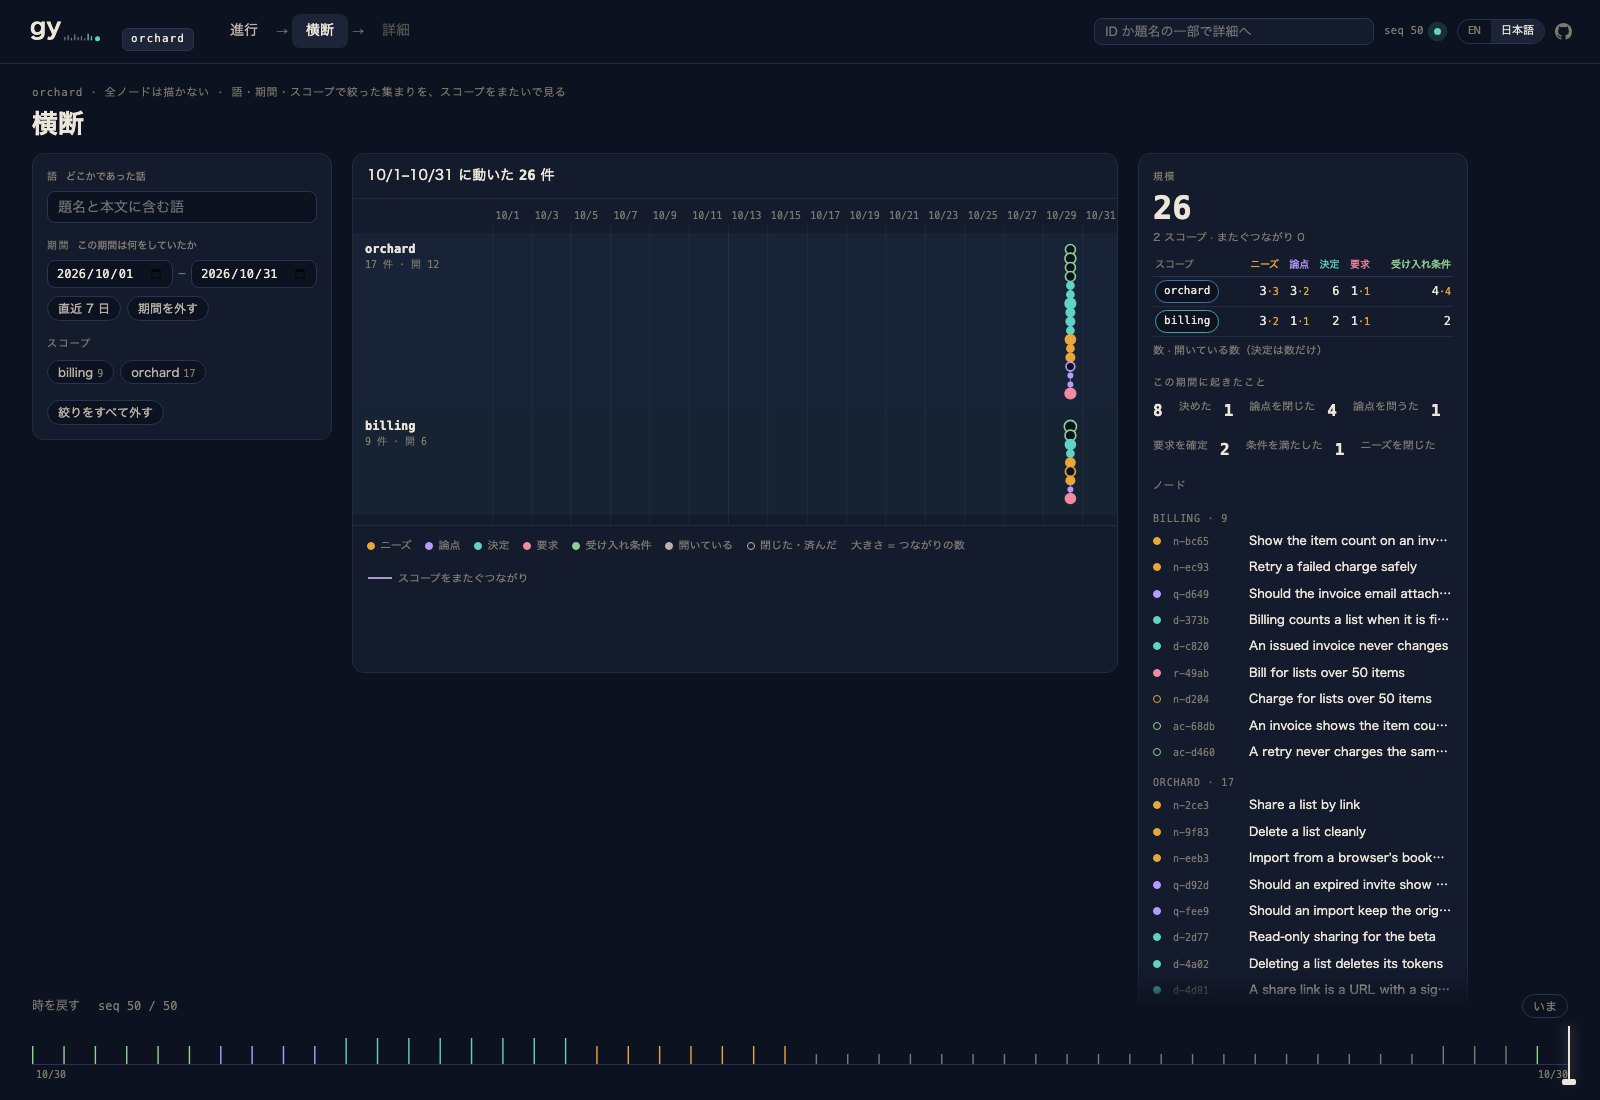
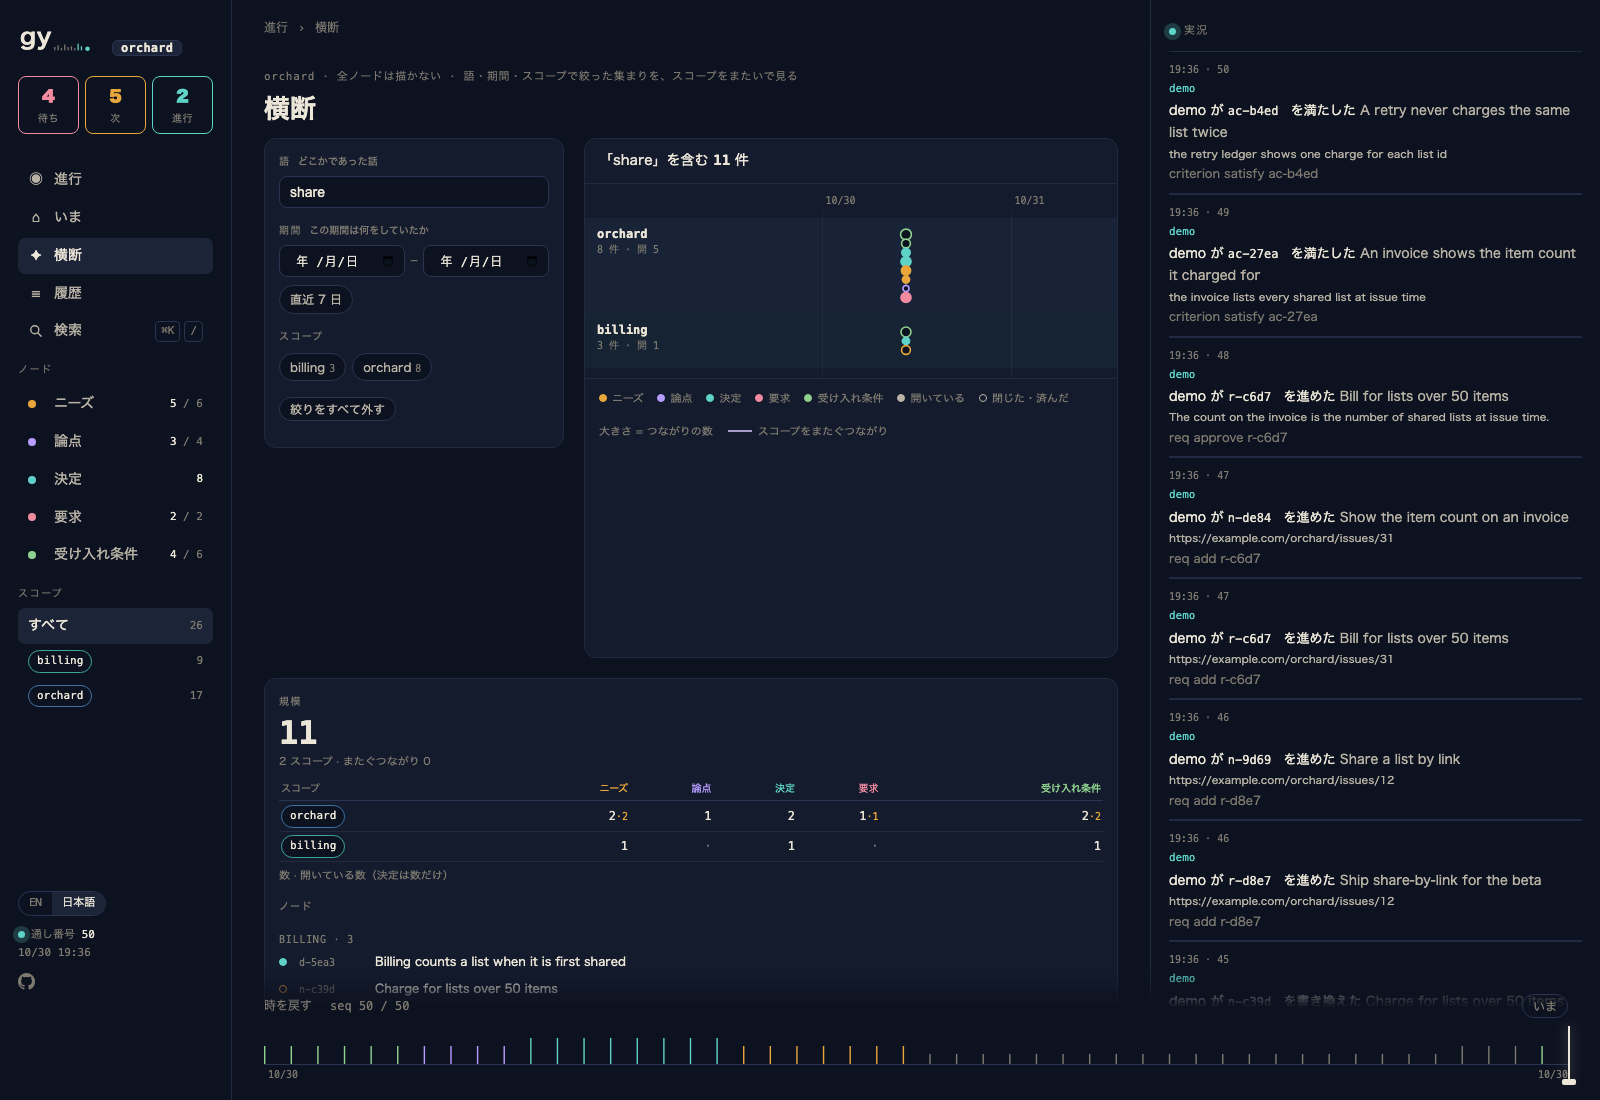
docs(serve): the README shows the home again, and the changelog says what stayed (r-0f99, d-159a)
The unreleased notes said the home, the lists, the eyes, and the history were
gone, and that `/api/now`, `/api/list`, `/api/history`, and `/api/labels` went
with the graph. They were never removed by a decision and now stand beside the
three screens, so the notes say what the build does: the three screens are
added, the graph screen and the all-node layout are gone, and the rest stays.

The README's progress section pointed at the home's picture; it now shows
progress, and a home section follows. The pictures come from
`scripts/demo-ledger.sh`, taken at 1600x1100 in Chrome.

diff --git a/CHANGELOG.md b/CHANGELOG.md
@@ -9,8 +9,8 @@ what is being built (d-c1a1, r-86ea).
 ### Added
 
 - **`show --json` carries every edge, `created`, and the node's creator**: each node returns `edges` (both directions, each with `name`, `to`, and `mark`), `created`, and `actor`, the writer whose write created it, with or without `--full`. The text output is unchanged (d-bbab, r-cb11, ac-88ca).
-- **`/api/shell` carries the sync state**: the same object `/api/now` answered under `resume.sync` before that route was removed — `pending`, `last_ok_at`, `last_ok_seq`, `last_error` — and nothing on a local ledger, so the band's "not pushed" mark has a home again (d-6d90, n-ecbf).
-- **`gy serve` answers from three reading APIs, and no longer lays the whole graph out**: `GET /api/overview` (the open needs by how far they got, what holds them and what the waits come from, the weeks, the scopes and their writes, the people a question waits on, the checks past due, and what nobody holds), `GET /api/cross?q=&from=&to=&scope=` (a cut of the record, or the scope-by-week grid when no cut is asked for or it holds more than 900 nodes), and `GET /api/node/<id>/path?depth=2|3` (the thread around one node, cause left and effect right). Each route file's doc comment is the shape and the meaning of every key. All three read the ledger once and judge with gy-ledger's own derivations. `GET /api/graph` and the server-side force layout are gone: the crossing screen places its cut in the browser, so the layout that diverged on kokopelli cannot come back. The routes the new screens do not read — `/api/now`, `/api/list`, `/api/history`, `/api/labels` — are gone with it (d-6d90, d-c302, r-44c7, ac-66f1).
+- **`/api/shell` carries the sync state**: the same object `/api/now` answers under `resume.sync` — `pending`, `last_ok_at`, `last_ok_seq`, `last_error` — and nothing on a local ledger, so the band's "not pushed" mark has its state in the frame it draws with (d-6d90, n-ecbf).
+- **`gy serve` adds three reading APIs, and no longer lays the whole graph out**: `GET /api/overview` (the open needs by how far they got, what holds them and what the waits come from, the weeks, the scopes and their writes, the people a question waits on, the checks past due, and what nobody holds), `GET /api/cross?q=&from=&to=&scope=` (a cut of the record, or the scope-by-week grid when no cut is asked for or it holds more than 900 nodes), and `GET /api/node/<id>/path?depth=2|3` (the thread around one node, cause left and effect right). Each route file's doc comment is the shape and the meaning of every key. All three read the ledger once and judge with gy-ledger's own derivations. `GET /api/graph` and the server-side force layout are gone: the crossing screen places its cut in the browser, so the layout that diverged on kokopelli cannot come back. The routes the older pages read — `/api/now`, `/api/list`, `/api/history`, `/api/labels` — stay, because the home, the lists, the history, and the rail still read them (d-6d90, d-c302, d-159a, r-44c7, r-0f99, ac-66f1).
 - **A criterion only closed needs aimed at reads as withdrawn**: an unmet criterion whose every `targets` bearer was closed with `need close` reads as `withdrawn`, and `gy show` names the closes (`withdrawn-by <need> (<by>: <evidence>)`) that withdrew it. The `targets` edge stays, `handover` no longer warns about it, and `list --status unsatisfied` leaves it out. No command or option was added (d-ed67, r-a8de, ac-b885).
 
 ### Changed
@@ -18,13 +18,19 @@ what is being built (d-c1a1, r-86ea).
 - **`/api/node` carries no neighbourhood, and reads the ledger once**: the ego map is gone (`neighborhood`), since the thread around a node is `/api/node/<id>/path`; the peers come from one read instead of one resolve per edge, so a need that waits on 160 questions answers in 0.035 s instead of 2.6 s. It also joins the three reading routes' guard: computed once per identical ask, 503 with the reason past five seconds, one line on failure (d-6d90, ac-0dbb).
 - **`gy serve` opens no ledger for a page or an asset, and keeps the one it opened**: `/` and `/assets/*` are answered before any ledger is read, so a browser's asset reads no longer each pay for opening the log; a reading answer keeps the opened ledger while the log's length and time stand still, and opens afresh as soon as a write lands. Opening the log was most of a small answer — on the kokopelli copy, `/api/ticks` fell from 0.135 s to 0.001 s warm and `/api/overview` from 0.184 s to 0.025 s (d-6d90).
 - **`gy serve` computes each reading question once**: a second ask for the same question that arrives while the first is still being computed waits for that answer instead of starting another, so a reloading screen can no longer stack computations. A computation past five seconds is refused with 503 and the reason, and a failed or refused answer writes one line to the server's log (d-6d90, ac-0dbb).
-- **`gy serve` is the three screens of the approved sample**: the first screen is progress (a scope × stage board, the weekly flow, and the roots of the waits), the second is across (a word, a period, or some scopes narrow the record, drawn with rows for scopes and time across, or as a scope × week grid when nothing is narrowed or the set passes 900), and the third is detail (where a node came from on the left, what it works on on the right, and a box centers its node). The first screen draws its frame before any API answer arrives and names a refused one in place; a refused answer never leaves an empty page (r-2d02, d-647f, d-6d90, n-a9f6, ac-0dbb).
+- **`gy serve` adds the three screens of the approved sample, and keeps the screens it had**: the first screen is progress (a scope × stage board, the weekly flow, and the roots of the waits), the second is across (a word, a period, or some scopes narrow the record, drawn with rows for scopes and time across, or as a scope × week grid when nothing is narrowed or the set passes 900), and the third is detail (where a node came from on the left, what it works on on the right, and a box centers its node). The first screen draws its frame before any API answer arrives and names a refused one in place; a refused answer never leaves an empty page (r-2d02, d-647f, d-159a, d-6d90, n-a9f6, ac-0dbb).
 - **The graph screen and its force layout are gone**: `/api/graph`, `graph.js`, and `graph-draw.js` are removed, and the crossing screen places its nodes from the answer alone, so a node with five hundred edges gives finite coordinates (r-2d02, ac-afba).
-- **The old now, list, eye, and history screens are gone**: the three screens above replace them. The time band, the search palette, and the header's jump box stay.
+- **Home, the lists, the eyes, the history, and the rail stay**: the sidebar's entrances are progress (the first screen), home, across, and the history, with a list of each kind and the scopes below them; the graph's entrance passes to across, and the wordmark returns to progress. The rail, the time band, the search palette, and the language switch stay too (d-159a, d-e239, r-0f99).
 - **`decide --help` names only the relations it accepts**: `--relate` lists `narrows`, `widens`, `supersedes`, and `completes`, and says that `narrows` and `supersedes` also need `--mark` (d-d889, r-2bad, ac-57a8).
 - **`edit` names what changes a reserved attribute**: a refusal says which real operation changes it (`req approve`, `need close`, `req add --ref`, `question close`, …), or that it is decided when the node is made and cannot change later (d-d889, r-2bad, ac-57a8).
 - **gy-loop keeps the `GY_ACTOR` already in the environment**: it uses that name and does not change it, and names itself only when none is set (d-7fd4, r-f8be, ac-058a).
 - **gy-loop and gy-decide**: "how the team runs" now reads "how the work is run", and a writer's name is one no other session writes under at the same time, telling a reader whose work each write was. The rule behind both is unchanged.
+
+### Fixed
+
+- **The detail screen's body wraps inside its column**: the rule named a `pre` inside `.body`, but the body is the `pre` itself, so a long passage ran under the writes beside it. The selector names what the page draws (d-159a, r-0f99).
+- **The crossing screen keeps its picture on a narrow page**: with the sidebar and the rail on screen, the two side panels share the first row and the summary moves below, so the picture is not squeezed to a hand's width (r-0f99).
+- **The history page asks for its labels in one read**: `/api/labels` read the ledger once per id, so the history page's two hundred rows opened it two hundred times and the page took 3.2 s on the kokopelli copy. One read and an index by id and alias brings the answer to 0.016 s and the page to 0.25 s (r-0f99).
 
 ### Updating
 
@@ -42,11 +48,11 @@ A criterion only needs closed with `need close` aimed at now reads as
 `list --status unsatisfied` leaves them out; `gy show` names the close that
 withdrew one (d-ed67).
 
-`gy serve`'s API changed shape: `/api/graph`, `/api/now`, `/api/list`,
-`/api/history`, and `/api/labels` are gone, replaced by `/api/overview`,
-`/api/cross`, and `/api/node/<id>/path`; `/api/shell`, `/api/ticks`,
+`gy serve`'s API grew: `/api/overview`, `/api/cross`, and
+`/api/node/<id>/path` are new, and `/api/graph` is gone. `/api/now`,
+`/api/list`, `/api/history`, `/api/labels`, `/api/shell`, `/api/ticks`,
 `/api/wait`, `/api/search`, and `/api/node/<id>` stay. The API carries no
-compatibility promise (d-4d37), and the screen that reads it ships alongside
+compatibility promise (d-4d37), and the screens that read it ship alongside
 this change.
 
 ## 2.2.0 - 2026-10-22

diff --git a/README.ja.md b/README.ja.md
@@ -92,9 +92,15 @@ gy remote set https://github.com/you/yourproject-gy.git
 
 ### 進行
 
-<img src="https://raw.githubusercontent.com/aq2bq/gy/main/docs/images/serve-now-ja.png" alt="進行の画面" width="100%">
+<img src="https://raw.githubusercontent.com/aq2bq/gy/main/docs/images/serve-progress-ja.png" alt="進行の画面" width="100%">
 
-最初の画面は、仕事がどこまで進んだかを答えます。開いているニーズをスコープと進み具合で並べ、何に止まっているかと、どの根が最も多くを止めているか、週ごとの動き、誰も持っていないものを出します。
+`gy serve` は進行の画面で開きます。開いているニーズをスコープと進み具合で並べ、何に止まっているかと、どの根が最も多くを止めているか、週ごとの動き、誰も持っていないものを出します。
+
+### ホーム
+
+<img src="https://raw.githubusercontent.com/aq2bq/gy/main/docs/images/serve-home-ja.png" alt="ホームの画面" width="100%">
+
+ホームはその日の人間の視点です。ワードマークの下の三つの数（誰が待っているか、次は何か、何がやりかけか）と、新しい書き込みを出します。箱を押すと、その数えた行が開きます。入口の下には、種別ごとの一覧が並びます。
 
 ### 横断
 
@@ -107,6 +113,8 @@ gy remote set https://github.com/you/yourproject-gy.git
 <img src="https://raw.githubusercontent.com/aq2bq/gy/main/docs/images/serve-node-ja.png" alt="一件の筋道" width="100%">
 
 詳細の画面は、左にどこから来たか、右に何に効いているかを置きます。箱を押すとその箱が中心になります。要点・本文・経緯は下に残ります。
+
+サイドバーが道案内です。進行（最初の画面）・ホーム・横断・種別ごとの一覧・スコープ・検索（`⌘K` または `/`）・履歴が並び、ワードマークで進行に戻ります。広い画面では、rail が新しい書き込みを十件、届くたびに出します。
 
 ## 記録の中身
 

diff --git a/README.md b/README.md
@@ -92,9 +92,15 @@ To look at the record yourself, use `gy serve`. The screenshots show a demo ledg
 
 ### Progress
 
-<img src="https://raw.githubusercontent.com/aq2bq/gy/main/docs/images/serve-now-en.png" alt="The progress screen" width="100%">
+<img src="https://raw.githubusercontent.com/aq2bq/gy/main/docs/images/serve-progress-en.png" alt="The progress screen" width="100%">
 
-The first screen answers where the work stands: the open needs by scope and how far they got, what holds them and which root holds the most, the weeks, and what nobody holds.
+`gy serve` opens on progress: the open needs by scope and how far they got, what holds them and which root holds the most, the weeks, and what nobody holds.
+
+### Home
+
+<img src="https://raw.githubusercontent.com/aq2bq/gy/main/docs/images/serve-home-en.png" alt="The home screen" width="100%">
+
+The home is the person's view of today: the three counts under the wordmark — who waits, what is ready, and what is half-done — then the newest writes. Each box opens the rows it counts, and a list of any kind sits under the entrances.
 
 ### Across
 
@@ -107,6 +113,8 @@ A word, a period, or a scope narrows the record. The set is drawn with rows for 
 <img src="https://raw.githubusercontent.com/aq2bq/gy/main/docs/images/serve-node-en.png" alt="One node's thread" width="100%">
 
 The detail screen puts where a node came from on the left and what it works on on the right; pressing a box centers it. The facts, the body, and the writes stay below.
+
+The sidebar is the way around: progress (the first screen), home, across, the lists of each kind, the scopes, the search (`⌘K` or `/`), and the history. The wordmark goes back to progress. On a wide screen the rail shows the ten newest writes as they land.
 
 ## What the ledger holds
 
